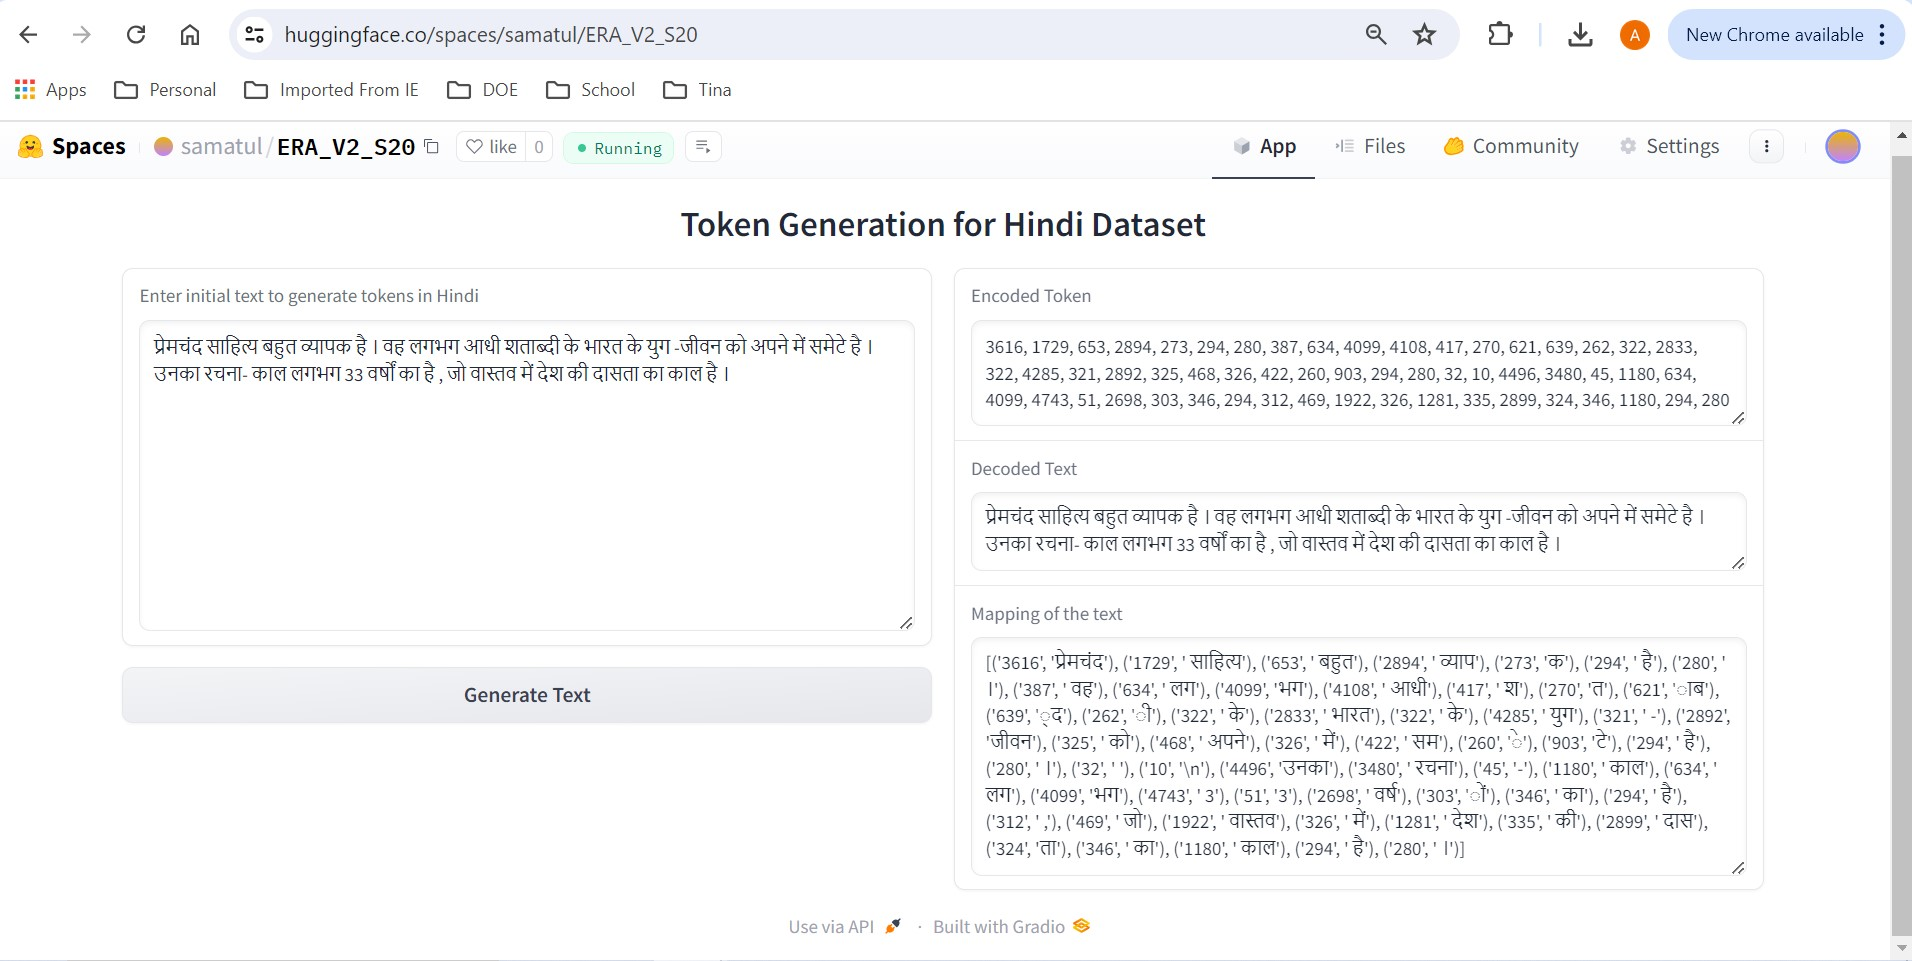
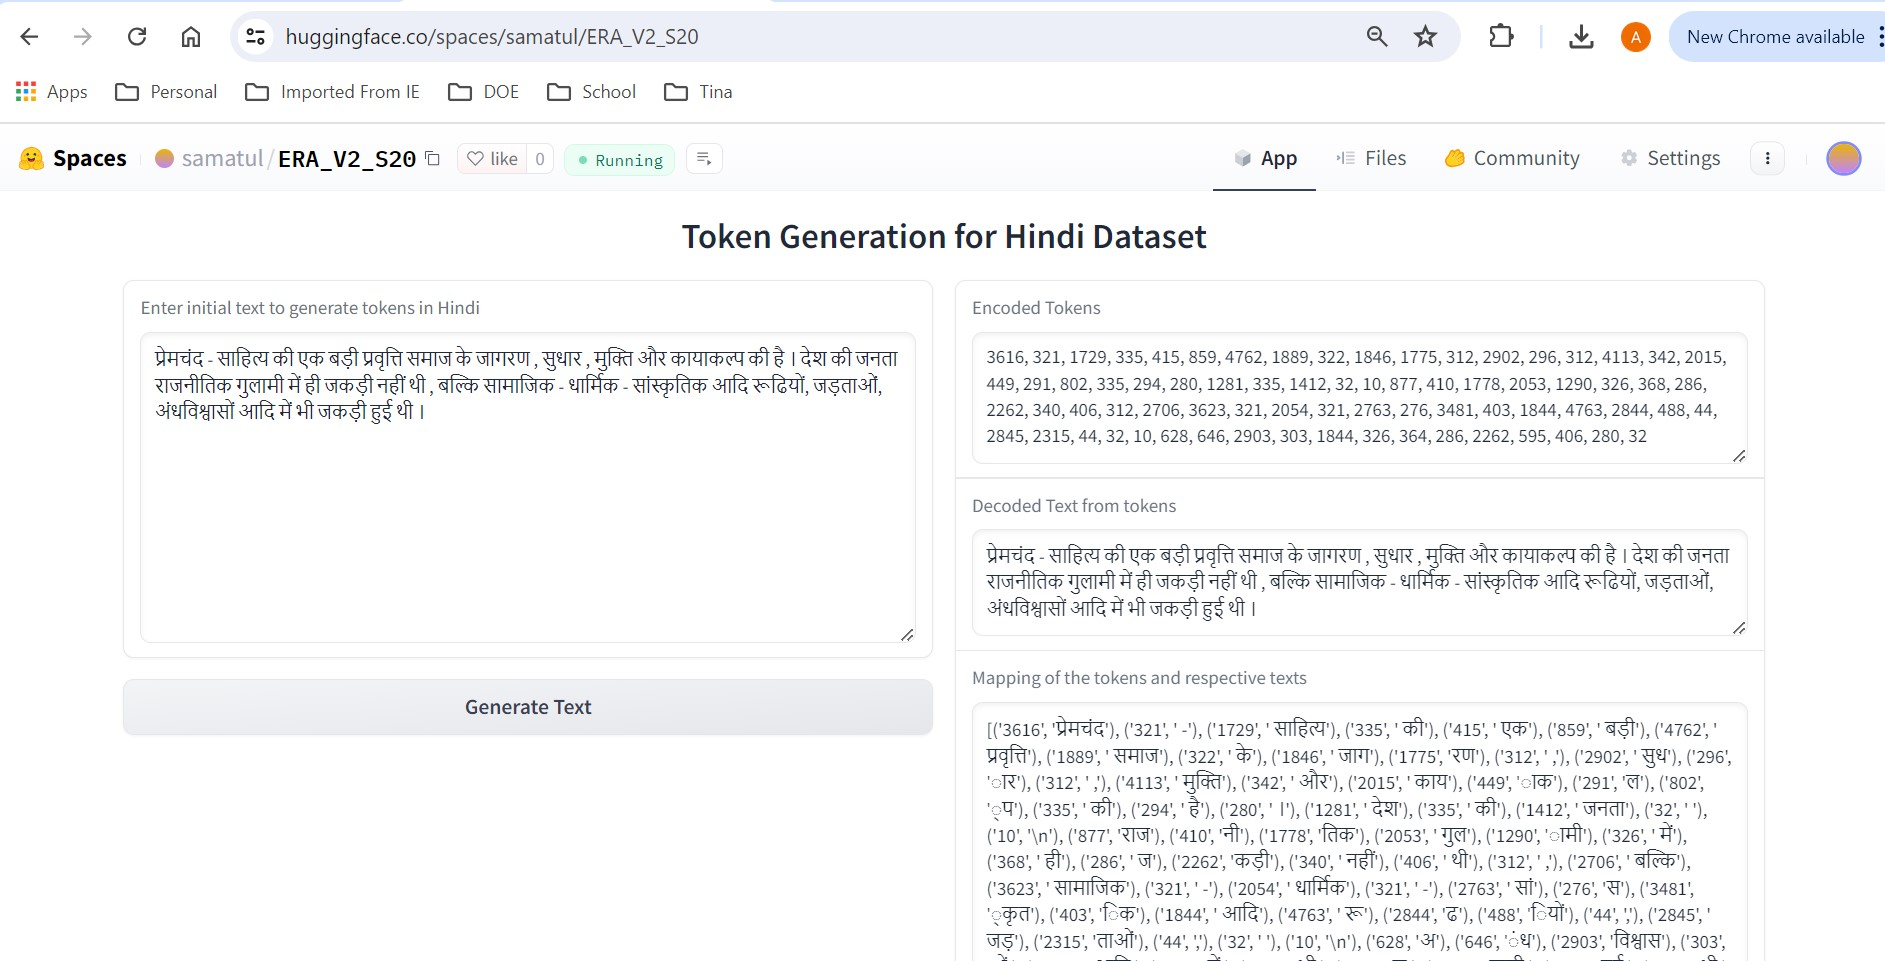
Add files via upload

diff --git a/Assignment_20/app.py b/Assignment_20/app.py
@@ -25,9 +25,9 @@ with gr.Blocks() as demo:
         inputs = [gr.TextArea(label = "Enter initial text to generate tokens in Hindi", lines = 10)]
         generate_btn = gr.Button(value = 'Generate Text')
       with gr.Column():
-        enc = gr.Textbox(label = "Encoded Token")
-        txt = gr.Textbox(label = "Decoded Text")
-        map = gr.Textbox(label = "Mapping of the text")
+        enc = gr.Textbox(label = "Encoded Tokens")
+        txt = gr.Textbox(label = "Decoded Text from tokens")
+        map = gr.Textbox(label = "Mapping of the tokens and respective texts")
         outputs  = [
             enc,
             txt,
